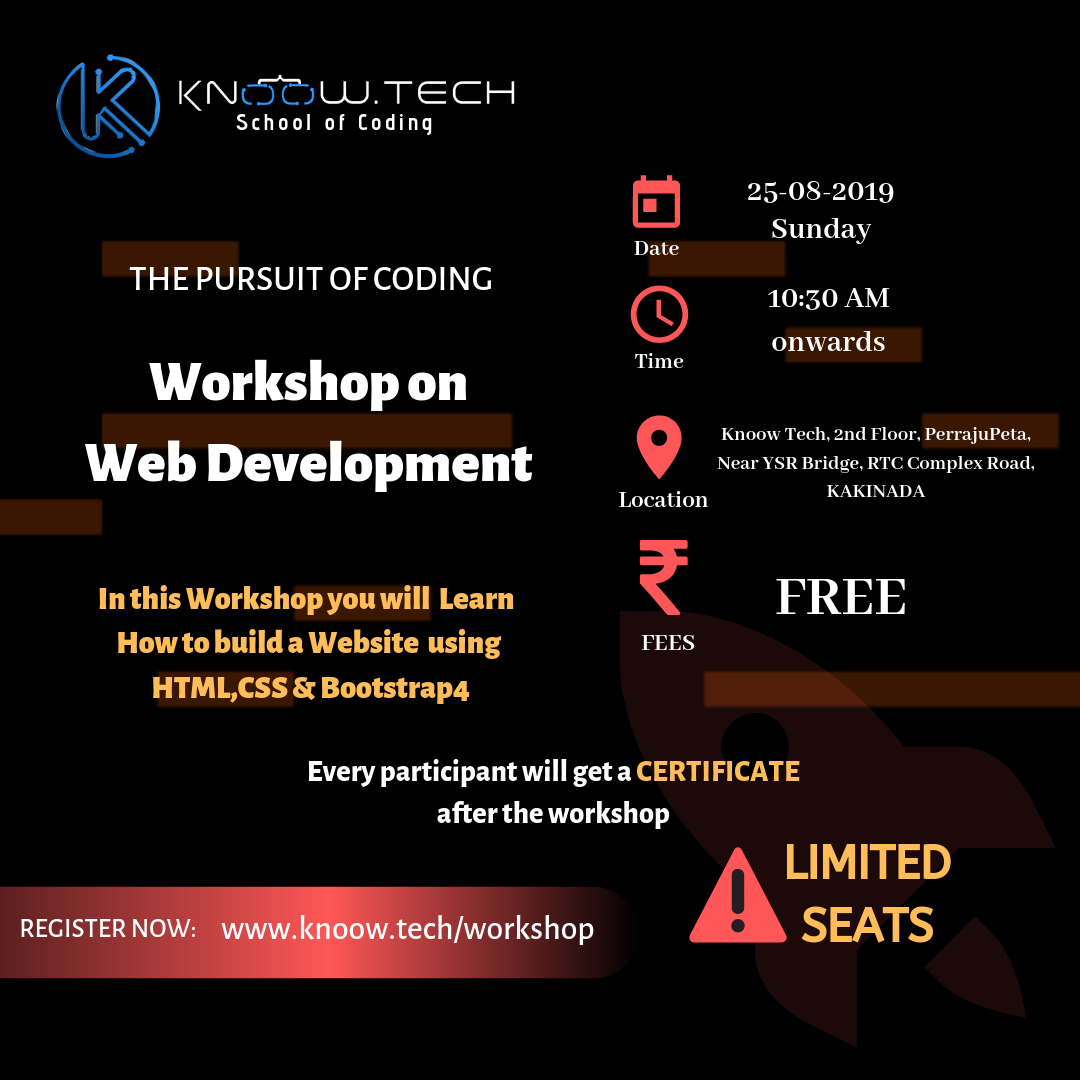
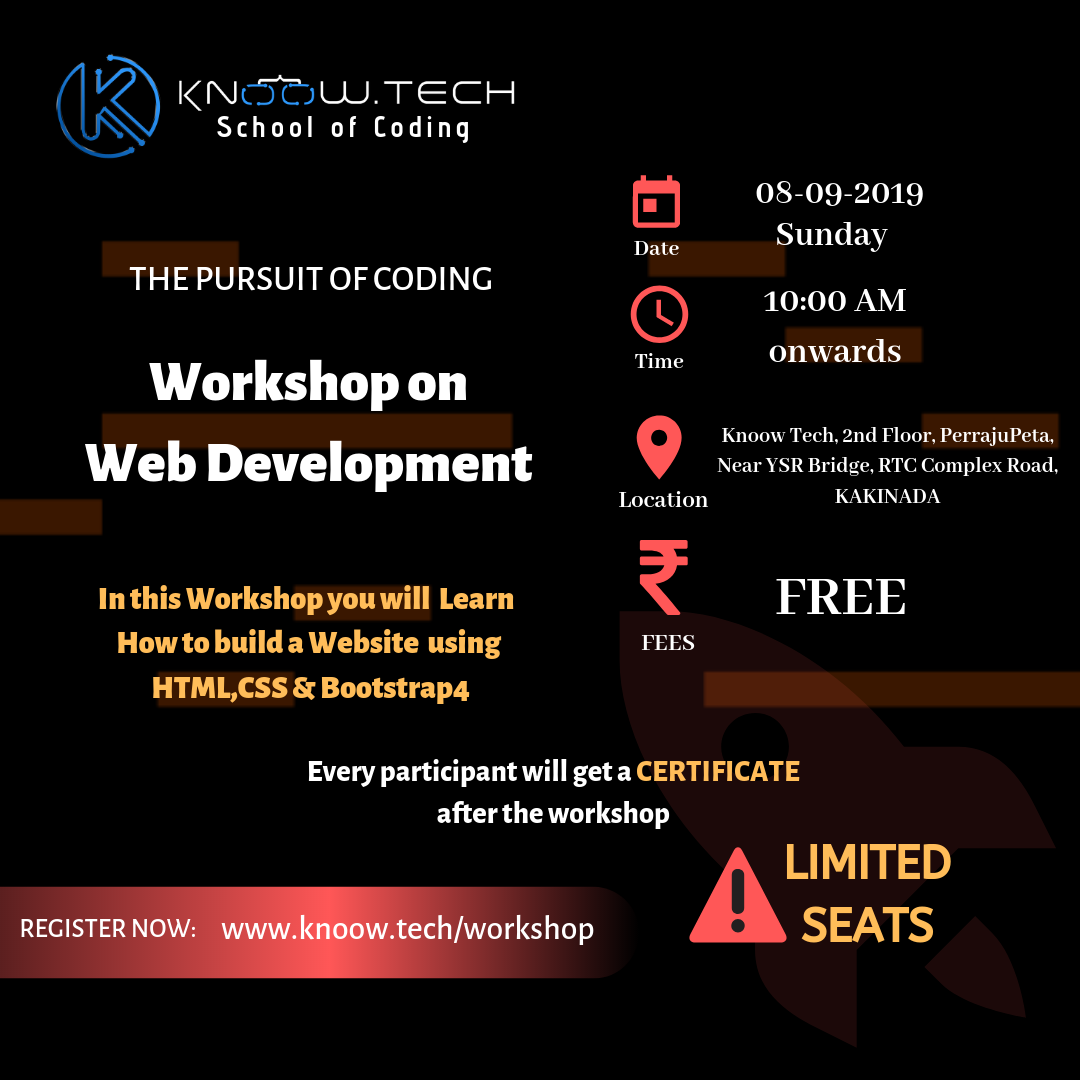
Workshop

Changed region(s): [[0.7028, 0.1528, 0.8556, 0.3361], [0.6722, 0.3972, 0.9778, 0.4889], [0.1833, 0.0917, 0.4278, 0.1222]]

diff --git a/workshop.html b/workshop.html
@@ -43,10 +43,10 @@
             </div>
             <div class="card-body">
                 <h4 class="card-title">Web Development Workshop</h4>
-                <span class="badge badge-pill badge-warning">Weekend 1.0</span>
-                <span class="badge badge-pill badge-danger">25/08/2019</span>
+                <span class="badge badge-pill badge-warning">Weekend 2.0</span>
+                <span class="badge badge-pill badge-danger">08/09/2019</span>
                 <p class="card-text"> </p>
-                <a class="btn btn-info disabled" href="https://forms.gle/EYmLii6x8jz5PvJ9A" style="text-decoration: none">Registerations Closed</a>
+                <a class="btn btn-info" href="https://forms.gle/HkxCQ6rRTQTxEaTq8" style="text-decoration: none">Register Now</a>
             </div>
         </div>
       </div>
@@ -64,7 +64,7 @@
                 <span class="badge badge-pill badge-warning">Weekend</span>
                 <span class="badge badge-pill badge-danger"></span>
                 <p class="card-text"> </p>
-                <a class="btn btn-info" href="https://forms.gle/UtZTKKTDzg4Aa4aj6" style="text-decoration: none">Book Now</a>
+                <a class="btn btn-info disabled" href="https://forms.gle/UtZTKKTDzg4Aa4aj6" style="text-decoration: none">Book Now</a>
             </div>
         </div>
       </div>
